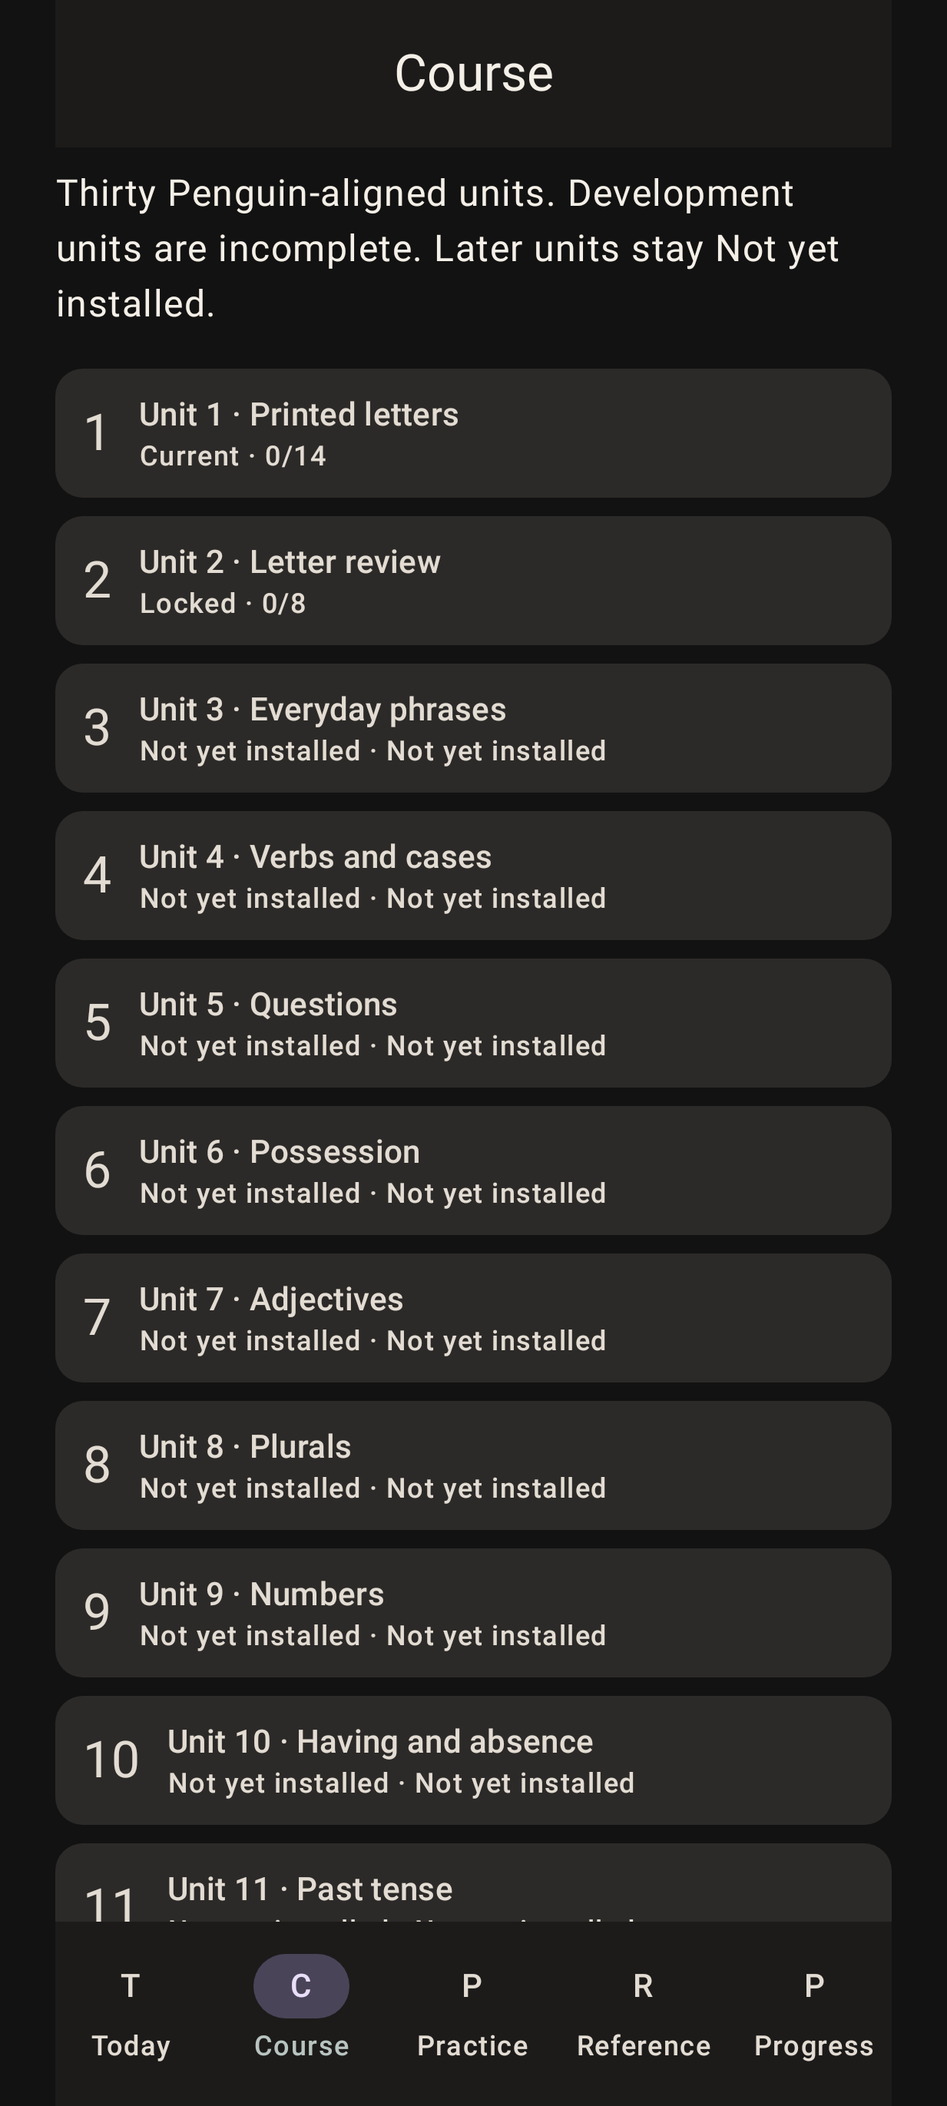
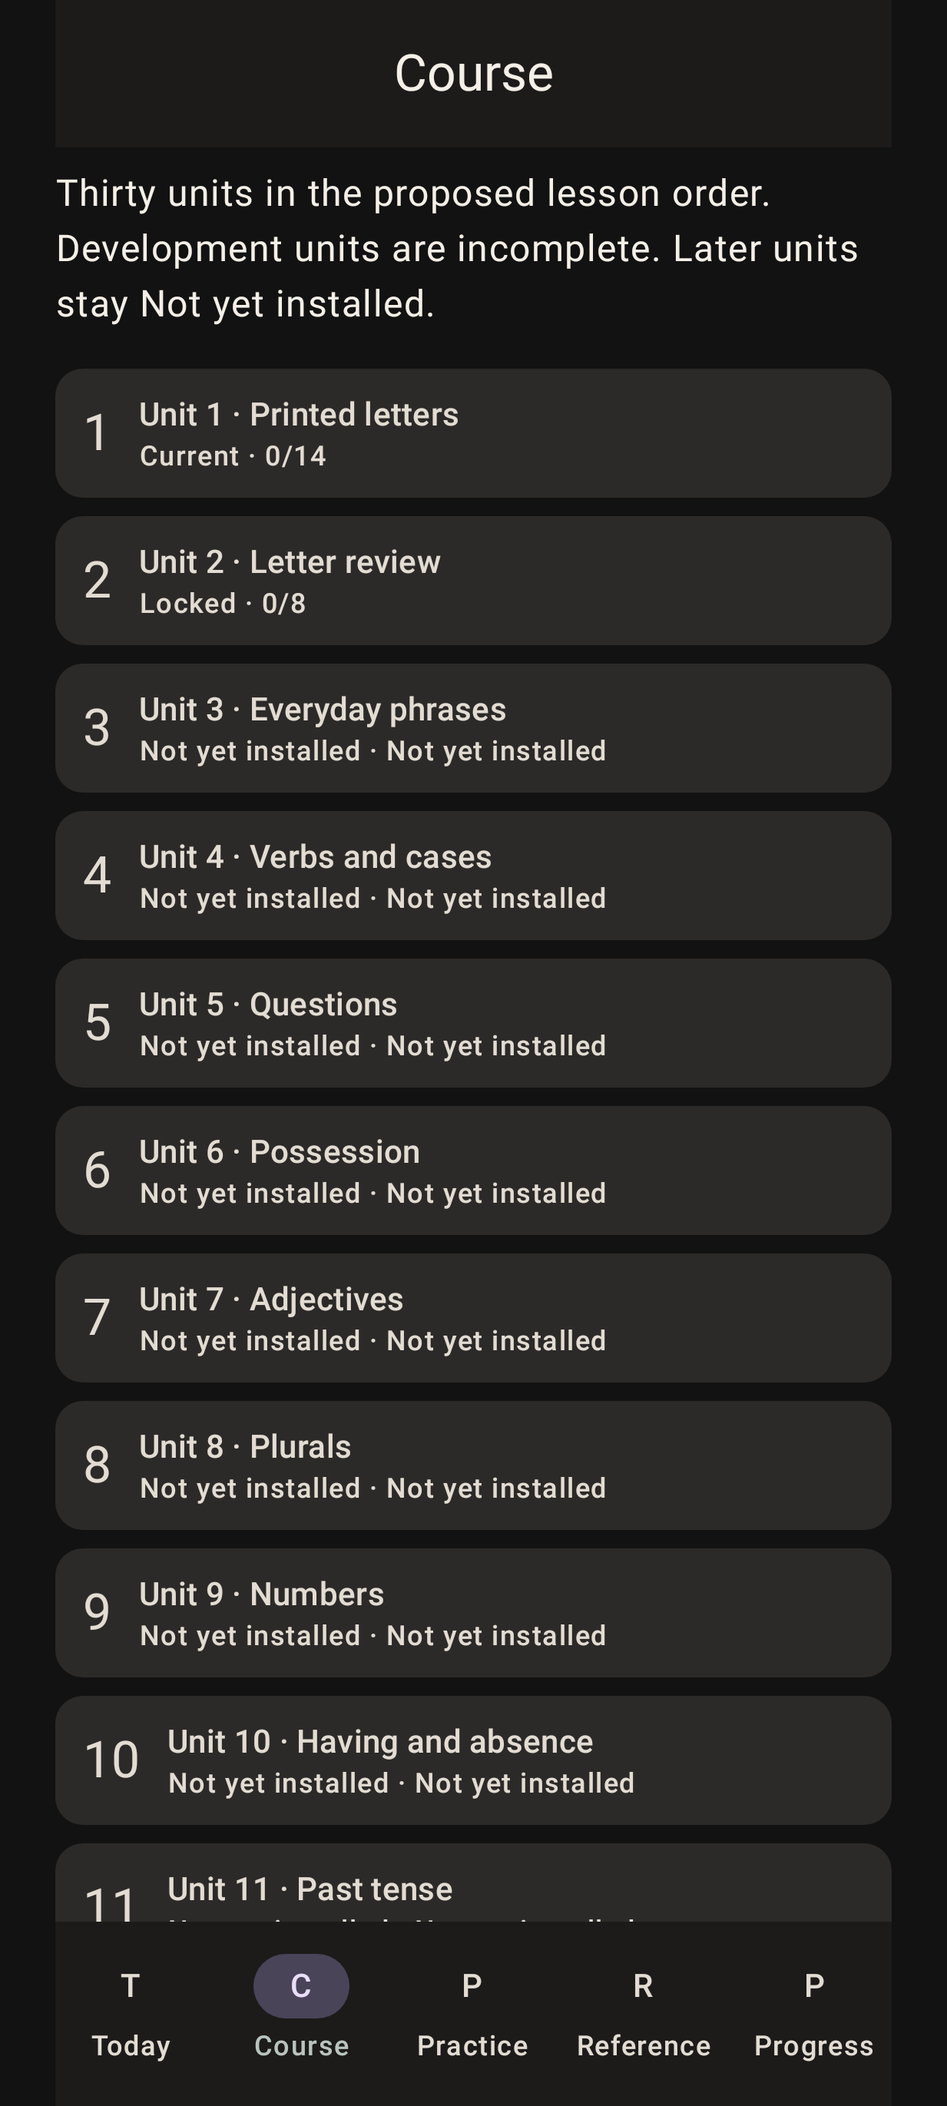
Keep Unit 1 in development until review and mapping are approved.
Content completeness is recorded separately and no longer lets a pending review or unsigned Lesson 1 mapping count as INSTALLED.

Changed region(s): [[0.0616, 0.062, 0.8938, 0.155]]

diff --git a/app/src/main/java/dev/russiancompanion/v2/curriculum/V2Validator.kt b/app/src/main/java/dev/russiancompanion/v2/curriculum/V2Validator.kt
@@ -36,6 +36,7 @@ internal object V2Validator {
                 "DEVELOPMENT" -> validateDevelopment(pack, unit, errors)
                 "NOT_YET_INSTALLED" -> validateUninstalled(unit, errors)
             }
+            validateReadiness(pack, unit, errors)
         }
         validateReachableSessions(pack, errors)
         pack.items.forEach { item -> validateItem(pack, item, errors) }
@@ -142,6 +143,15 @@ internal object V2Validator {
         if (unit.number !in 1..2) {
             errors += "Only Units 1-2 may be installed in this pack"
         }
+        if (pack.linguisticReview.status != "APPROVED") {
+            errors += "Installed unit ${unit.number} requires an APPROVED qualified-review record"
+        }
+        if (unit.mappingStatus != "APPROVED") {
+            errors += "Installed unit ${unit.number} mapping must be APPROVED"
+        }
+        if (unit.readiness != "INSTALLABLE") {
+            errors += "Installed unit ${unit.number} readiness must be INSTALLABLE"
+        }
         if (unit.sessions.isEmpty()) errors += "Installed unit ${unit.number} has no sessions"
         if (unit.objectives.isEmpty()) errors += "Installed unit ${unit.number} has no objectives"
         if (unit.sessions.any { session -> session.steps.any { it.kind == "UNAVAILABLE" || !it.unavailableReason.isNullOrBlank() } }) {
@@ -150,56 +160,67 @@ internal object V2Validator {
         if (pack.admissions.handwritingAssets == 0 && unit.number == 2) {
             errors += "Installed Unit 2 requires verified handwriting assets"
         }
-        val claimsListening = unit.sessions.any { session ->
-            session.steps.any { it.kind == "LISTEN" && it.unavailableReason.isNullOrBlank() }
-        }
-        if ((claimsListening || unit.number == 2) && pack.admissions.mappedPronunciationAudio == 0) {
+        if (pack.admissions.mappedPronunciationAudio == 0) {
             errors += "Installed unit ${unit.number} requires mapped pronunciation audio"
         }
-        when (pack.linguisticReview.status) {
-            "APPROVED" -> {
-                if (unit.mappingStatus != "APPROVED") {
-                    errors += "Installed unit ${unit.number} mapping must be APPROVED"
-                }
-                validateInstalledReviewRecords(pack, unit, errors)
-            }
-            "PENDING_QUALIFIED_REVIEW" -> {
-                if (unit.number != 1) {
-                    errors += "Only Unit 1 may be installed before qualified review"
-                }
-                if (unit.mappingStatus == "APPROVED") {
-                    errors += "Installed unit ${unit.number} mapping cannot be APPROVED before qualified review"
-                }
-                validatePendingInstalledRecords(pack, unit, errors)
-            }
-            else -> errors += "Installed unit ${unit.number} requires a pending or approved qualified-review record"
-        }
+        validateInstalledReviewRecords(pack, unit, errors)
         validateOpenableBody(pack, unit, errors, requireCompleteRecognition = true)
         if (unit.objectives.filter { it.kind == "RECOGNITION" }.any { it.exampleIds.size < 2 }) {
             errors += "Installed unit ${unit.number} has a recognition objective with fewer than two examples"
         }
     }
 
-    private fun validatePendingInstalledRecords(
-        pack: V2CurriculumPack,
-        unit: V2Unit,
-        errors: MutableList<String>,
-    ) {
-        val steps = unit.sessions.flatMap { it.steps }
-        val itemIds = (steps.flatMap { it.itemIds } + unit.objectives.flatMap { it.checkItemIds }).toSet()
-        val exampleIds = (steps.flatMap { it.exampleIds } + unit.objectives.flatMap { it.exampleIds }).toSet()
-        val letterIds = exampleIds.mapNotNull { pack.example(it)?.letterId }.toSet()
-        (itemIds.map { "Check $it" to pack.item(it)?.reviewStatus } +
-            exampleIds.map { "Example $it" to pack.example(it)?.reviewStatus } +
-            letterIds.map { "Letter $it" to pack.letter(it)?.reviewStatus })
-            .forEach { (label, status) ->
-                when (status) {
-                    null, "PENDING_QUALIFIED_REVIEW", "APPROVED" -> Unit
-                    "NOT_REQUIRED" -> errors += "$label is linguistically relevant and cannot be NOT_REQUIRED"
-                    "REJECTED" -> errors += "$label review status REJECTED is not approved for an installed unit"
-                    else -> errors += "$label has unrecognized review status $status"
+    private fun validateReadiness(pack: V2CurriculumPack, unit: V2Unit, errors: MutableList<String>) {
+        if (unit.readiness.isBlank()) {
+            errors += "Unit ${unit.number} is missing a readiness"
+            return
+        }
+        if (unit.readiness !in CLOSED_READINESS) {
+            errors += "Unit ${unit.number} has unknown readiness ${unit.readiness}"
+            return
+        }
+        when (unit.readiness) {
+            "NOT_PREPARED" -> {
+                if (unit.installState == "INSTALLED") {
+                    errors += "Unit ${unit.number} cannot be INSTALLED while readiness is NOT_PREPARED"
                 }
             }
+            "CONTENT_COMPLETE_REVIEW_PENDING" -> {
+                if (unit.installState == "INSTALLED") {
+                    errors += "Unit ${unit.number} cannot be INSTALLED while review is pending"
+                }
+                if (pack.linguisticReview.status == "APPROVED") {
+                    errors += "Unit ${unit.number} readiness is stale because review is APPROVED"
+                }
+                if (unit.mappingStatus == "APPROVED") {
+                    errors += "Unit ${unit.number} readiness cannot stay review-pending after mapping approval"
+                }
+                if (unit.sessions.any { session ->
+                        session.steps.any { it.kind == "UNAVAILABLE" || !it.unavailableReason.isNullOrBlank() }
+                    }
+                ) {
+                    errors += "Unit ${unit.number} is not content-complete while a required experience is unavailable"
+                }
+                if (unit.objectives.filter { it.kind == "RECOGNITION" }.any { it.exampleIds.size < 2 }) {
+                    errors += "Unit ${unit.number} content-complete claim has a recognition objective with fewer than two examples"
+                }
+            }
+            "REVIEW_APPROVED" -> {
+                if (pack.linguisticReview.status != "APPROVED") {
+                    errors += "Unit ${unit.number} readiness claims review approval that is not recorded"
+                }
+            }
+            "MAPPING_APPROVED" -> {
+                if (unit.mappingStatus != "APPROVED") {
+                    errors += "Unit ${unit.number} readiness claims mapping approval that is not recorded"
+                }
+            }
+            "INSTALLABLE" -> {
+                if (pack.linguisticReview.status != "APPROVED" || unit.mappingStatus != "APPROVED") {
+                    errors += "Unit ${unit.number} INSTALLABLE readiness requires approved review and mapping"
+                }
+            }
+        }
     }
 
     private fun validateInstalledReviewRecords(

diff --git a/app/src/test/java/dev/russiancompanion/v2/V2RebuildTest.kt b/app/src/test/java/dev/russiancompanion/v2/V2RebuildTest.kt
@@ -56,9 +56,14 @@ class V2RebuildTest {
         val validation = V2Validator.validate(pack)
         assertTrue(validation.errors.joinToString(), validation.ok)
         assertEquals(30, pack.units.size)
-        assertEquals("INSTALLED", pack.unit(1)?.installState)
+        assertEquals("DEVELOPMENT", pack.unit(1)?.installState)
+        assertEquals("CONTENT_COMPLETE_REVIEW_PENDING", pack.unit(1)?.readiness)
         assertEquals("DEVELOPMENT", pack.unit(2)?.installState)
+        assertEquals("NOT_PREPARED", pack.unit(2)?.readiness)
         assertEquals("PENDING_CURRICULUM_REVIEWER", pack.unit(1)?.mappingStatus)
+        val unit1Text = pack.unit(1)!!.topicSummary + pack.unit(1)!!.sessions.flatMap { it.steps }.joinToString(" ") { it.body }
+        assertFalse(unit1Text.contains("Penguin-aligned"))
+        assertFalse(unit1Text.contains("This installed unit"))
         assertTrue(pack.unit(1)!!.sessions.flatMap { it.steps }.none { it.kind == "UNAVAILABLE" || !it.unavailableReason.isNullOrBlank() })
         assertTrue(pack.unit(1)!!.sessions.none { session -> session.steps.any { it.kind == "LISTEN" } })
         assertEquals(0, pack.admissions.mappedPronunciationAudio)
@@ -109,19 +114,19 @@ class V2RebuildTest {
         assertFalse(unknownResult.ok)
         assertTrue(unknownResult.errors.any { it.contains("Unrecognized linguistic review status") })
 
-        val prepared = approveInstruction(
-            pack.copy(
-                units = pack.units.map { unit ->
-                    if (unit.number == 1) unit.copy(mappingStatus = "APPROVED") else unit
-                },
-            ),
-        )
-        val digest = V2Validator.instructionalContentDigest(prepared)
-        val complete = prepared.copy(
-            linguisticReview = prepared.linguisticReview.copy(
+        val digest = V2Validator.instructionalContentDigest(pack)
+        val complete = pack.copy(
+            units = pack.units.map { unit ->
+                if (unit.readiness == "CONTENT_COMPLETE_REVIEW_PENDING") {
+                    unit.copy(readiness = "REVIEW_APPROVED")
+                } else {
+                    unit
+                }
+            },
+            linguisticReview = pack.linguisticReview.copy(
                 status = "APPROVED",
                 reviewer = "Qualified Reviewer",
-                packVersion = prepared.packVersion,
+                packVersion = pack.packVersion,
                 reviewedContentDigest = digest,
                 curriculumMappingId = "map-owned-edition",
             ),
@@ -267,17 +272,38 @@ class V2RebuildTest {
     }
 
     @Test
-    fun unitOneStaysInstallableWhileReviewAndMappingRemainUnsigned() {
+    fun noUnitCanBeInstalledWithPendingReviewOrMapping() {
         val source = pack()
-        val result = V2Validator.validate(source)
-        assertTrue(result.errors.joinToString(), result.ok)
-        val signedMapping = source.copy(
+        listOf(1, 2).forEach { number ->
+            val installed = source.copy(
+                units = source.units.map { unit ->
+                    if (unit.number == number) {
+                        unit.copy(installState = "INSTALLED", readiness = "INSTALLABLE")
+                    } else {
+                        unit
+                    }
+                },
+            )
+            val result = V2Validator.validate(installed)
+            assertFalse(result.ok)
+            assertTrue(
+                result.errors.joinToString(),
+                result.errors.any { it.contains("Installed unit $number") && it.contains("APPROVED qualified-review record") },
+            )
+            assertTrue(
+                result.errors.joinToString(),
+                result.errors.any { it.contains("Installed unit $number") && it.contains("mapping must be APPROVED") },
+            )
+        }
+        val pendingReview = source.copy(
             units = source.units.map { unit ->
-                if (unit.number == 1) unit.copy(mappingStatus = "APPROVED") else unit
+                if (unit.number == 1) unit.copy(installState = "INSTALLED") else unit
             },
         )
-        val signed = V2Validator.validate(signedMapping)
-        assertTrue(signed.errors.any { it.contains("cannot be APPROVED before qualified review") })
+        val pendingResult = V2Validator.validate(pendingReview)
+        assertTrue(
+            pendingResult.errors.any { it.contains("Unit 1") && it.contains("cannot be INSTALLED while review is pending") },
+        )
     }
 
     @Test
@@ -500,7 +526,11 @@ class V2RebuildTest {
     private fun installedUnitOne(source: dev.russiancompanion.v2.curriculum.V2CurriculumPack): dev.russiancompanion.v2.curriculum.V2CurriculumPack {
         val next = source.copy(
             units = source.units.map { unit ->
-                if (unit.number == 1) unit.copy(installState = "INSTALLED", mappingStatus = "APPROVED") else unit
+                if (unit.number == 1) {
+                    unit.copy(installState = "INSTALLED", mappingStatus = "APPROVED", readiness = "INSTALLABLE")
+                } else {
+                    unit
+                }
             },
         )
         val digest = V2Validator.instructionalContentDigest(next)

diff --git a/app/src/main/java/dev/russiancompanion/v2/ui/V2Screens.kt b/app/src/main/java/dev/russiancompanion/v2/ui/V2Screens.kt
@@ -38,7 +38,7 @@ import dev.russiancompanion.v2.curriculum.currentObjective
 import dev.russiancompanion.v2.curriculum.installLabel
 import dev.russiancompanion.v2.curriculum.item
 import dev.russiancompanion.v2.curriculum.objectiveState
-import dev.russiancompanion.v2.curriculum.openable
+import dev.russiancompanion.v2.curriculum.readinessLabel
 import dev.russiancompanion.v2.curriculum.recordedSessionCount
 import dev.russiancompanion.v2.curriculum.reference
 import dev.russiancompanion.v2.curriculum.searchReferences
@@ -97,7 +97,7 @@ internal fun V2OnboardingScreen(saveFailed: Boolean, onFinished: (V2OnboardingDr
         when (page) {
             0 -> {
                 Text(
-                    "Russian Companion is a fully offline course companion. It tells you the current Penguin-aligned unit, what to study in your own book, and what the app can practice with verified material.",
+                    "Russian Companion is a fully offline course companion. It tells you the current unit, what to study in your own book, and what the app can practice with verified material.",
                     style = MaterialTheme.typography.bodyLarge,
                     modifier = Modifier.semantics { testTag = "v2-onboarding-welcome" },
                 )
@@ -247,7 +247,7 @@ internal fun V2CourseScreen(
     V2LazyScaffold(title = "Course", tab = V2Tab.COURSE, onTab = onTab) {
         item {
             Text(
-                "Thirty Penguin-aligned units. Development units are incomplete. Later units stay Not yet installed.",
+                "Thirty units in the proposed lesson order. Development units are incomplete. Later units stay Not yet installed.",
                 modifier = Modifier.padding(bottom = 12.dp).semantics { testTag = "v2-course-intro" },
             )
         }
@@ -306,8 +306,9 @@ internal fun V2UnitScreen(
             modifier = Modifier.semantics { testTag = "v2-unit-state" },
         )
         Text(installLabel(unit), modifier = Modifier.semantics { testTag = "v2-unit-install" })
-        if (unit.openable() && pack.linguisticReview.status != "APPROVED") {
-            Text("Qualified review pending", modifier = Modifier.semantics { testTag = "v2-review-pending" })
+        val readiness = readinessLabel(unit)
+        if (readiness.isNotEmpty()) {
+            Text(readiness, modifier = Modifier.semantics { testTag = "v2-readiness" })
         }
         if (state == V2UnitState.NOT_YET_INSTALLED) {
             Text("This unit is on the map so you can see the Penguin sequence. It has no lesson content, audio, or completion path.")

diff --git a/app/src/main/java/dev/russiancompanion/v2/curriculum/V2Models.kt b/app/src/main/java/dev/russiancompanion/v2/curriculum/V2Models.kt
@@ -33,6 +33,14 @@ internal val CLOSED_REFERENCE_CLASSIFICATIONS = setOf(
 
 internal val NON_LINGUISTIC_REFERENCE_CLASSIFICATIONS = CLOSED_REFERENCE_CLASSIFICATIONS - LINGUISTIC_REFERENCE_CLASSIFICATION
 
+internal val CLOSED_READINESS = setOf(
+    "NOT_PREPARED",
+    "CONTENT_COMPLETE_REVIEW_PENDING",
+    "REVIEW_APPROVED",
+    "MAPPING_APPROVED",
+    "INSTALLABLE",
+)
+
 internal val GOVERNANCE_PROMPT_MARKERS = listOf(
     "catalog audio",
     "unrelated catalog",
@@ -156,6 +164,7 @@ internal data class V2Unit(
     val shortLabel: String = "",
     val topicSummary: String,
     val installState: String,
+    val readiness: String = "",
     val penguinLesson: Int,
     val mappingStatus: String,
     val mappingNote: String,

diff --git a/app/src/main/java/dev/russiancompanion/v2/curriculum/V2ProgressRules.kt b/app/src/main/java/dev/russiancompanion/v2/curriculum/V2ProgressRules.kt
@@ -49,6 +49,14 @@ internal fun installLabel(unit: V2Unit): String = when (unit.installState) {
     else -> "Not yet installed"
 }
 
+internal fun readinessLabel(unit: V2Unit): String = when (unit.readiness) {
+    "CONTENT_COMPLETE_REVIEW_PENDING" -> "Content complete, review pending"
+    "REVIEW_APPROVED" -> "Review approved"
+    "MAPPING_APPROVED" -> "Mapping approved"
+    "INSTALLABLE" -> "Ready to install"
+    else -> ""
+}
+
 internal fun todaysSession(unit: V2Unit, learner: V2LearnerView): V2Session? {
     return unit.sessions.firstOrNull { session ->
         session.steps.any { it.id !in learner.completedStepIds }

diff --git a/catalog/build_v2_curriculum.py b/catalog/build_v2_curriculum.py
@@ -4,10 +4,11 @@
 Cyrillic letters are public-domain writing-system facts. No Penguin prose,
 no generated example words, no catalog-order audio bindings.
 
-Unit 1 is the installed printed-letter unit. It does not claim qualified
-review, example words, or model audio. Unit 2 stays DEVELOPMENT until
-handwriting assets and mapped audio exist. Advancement checks are letter
-identities, print pairs, confusable forms, and signs — never product-policy quizzes.
+Unit 1 is a content-complete DEVELOPMENT unit awaiting qualified review
+and an owned-edition mapping. It is not INSTALLED. Unit 2 stays
+DEVELOPMENT until handwriting assets and mapped audio exist. Advancement
+checks are letter identities, print pairs, confusable forms, and signs —
+never product-policy quizzes.
 """
 
 from __future__ import annotations
@@ -558,7 +559,7 @@ def build() -> dict:
                     "u1-st-orient",
                     "ORIENT",
                     "Unit 1 — Printed letters",
-                    "You are at Penguin-aligned Unit 1. This installed unit teaches printed letter identities with public-domain letter forms. Example words and model audio are not part of this unit.",
+                    "This is a proposed Lesson 1 mapping, not an approved owned-edition alignment. The development unit teaches printed letter identities with public-domain letter forms. Example words and model audio are not part of this unit. Qualified review is still pending.",
                     bookDirection="Open your copy to Lesson 1. Use the book for the author's explanations, exercises, and any example words.",
                 ),
                 step(
@@ -912,7 +913,7 @@ def build() -> dict:
                     "u2-st-orient",
                     "ORIENT",
                     "Unit 2 — Book handwriting and letter review",
-                    "Penguin-aligned Unit 2 continues handwritten forms and pronunciation in the book. This development slice reviews printed letters. Verified handwriting images and mapped pronunciation audio are not installed.",
+                    "Proposed Lesson 2 continues handwritten forms and pronunciation in the book. This development slice reviews printed letters. Verified handwriting images and mapped pronunciation audio are not installed.",
                     bookDirection="Open Lesson 2 in your copy for handwritten forms and the author's pronunciation notes.",
                 ),
             ],
@@ -1273,6 +1274,7 @@ def build() -> dict:
         sessions: list,
         prereq: list[int],
         install_state: str = "DEVELOPMENT",
+        readiness: str = "NOT_PREPARED",
         mapping_note: str = "Topic-level alignment uses the publisher's public table of contents. Edition comparison is not signed. This unit is incomplete development content, not a production-depth installed unit.",
     ) -> dict:
         return {
@@ -1282,6 +1284,7 @@ def build() -> dict:
             "shortLabel": short,
             "topicSummary": summary,
             "installState": install_state,
+            "readiness": readiness,
             "penguinLesson": number,
             "mappingStatus": "PENDING_CURRICULUM_REVIEWER",
             "mappingNote": mapping_note,
@@ -1304,11 +1307,11 @@ def build() -> dict:
             1,
             "Learning to read Russian",
             "Printed letters",
-            "Installed printed-letter unit: identities, print pairs, look-alikes, signs, and letter-level decoding. Example words and model audio are not part of this unit.",
+            "Content-complete development unit for printed letters: identities, print pairs, look-alikes, signs, and letter-level decoding. Qualified review and the owned-edition mapping are still pending.",
             unit1_sessions,
             [],
-            install_state="INSTALLED",
-            mapping_note="Topic-level alignment uses the publisher's public table of contents. Edition comparison is not signed. The installed body is printed-letter literacy only.",
+            readiness="CONTENT_COMPLETE_REVIEW_PENDING",
+            mapping_note="Proposed Lesson 1 mapping from the publisher's public table of contents. Owned-edition comparison is not signed, so this unit is not labeled aligned.",
         ),
         development_unit(
             2,
@@ -1328,6 +1331,7 @@ def build() -> dict:
                 "shortLabel": short,
                 "topicSummary": title,
                 "installState": "NOT_YET_INSTALLED",
+                "readiness": "NOT_PREPARED",
                 "penguinLesson": number,
                 "mappingStatus": "NOT_STARTED",
                 "mappingNote": "The topic identifier is recorded. No lesson body, audio, or exercises are installed.",
